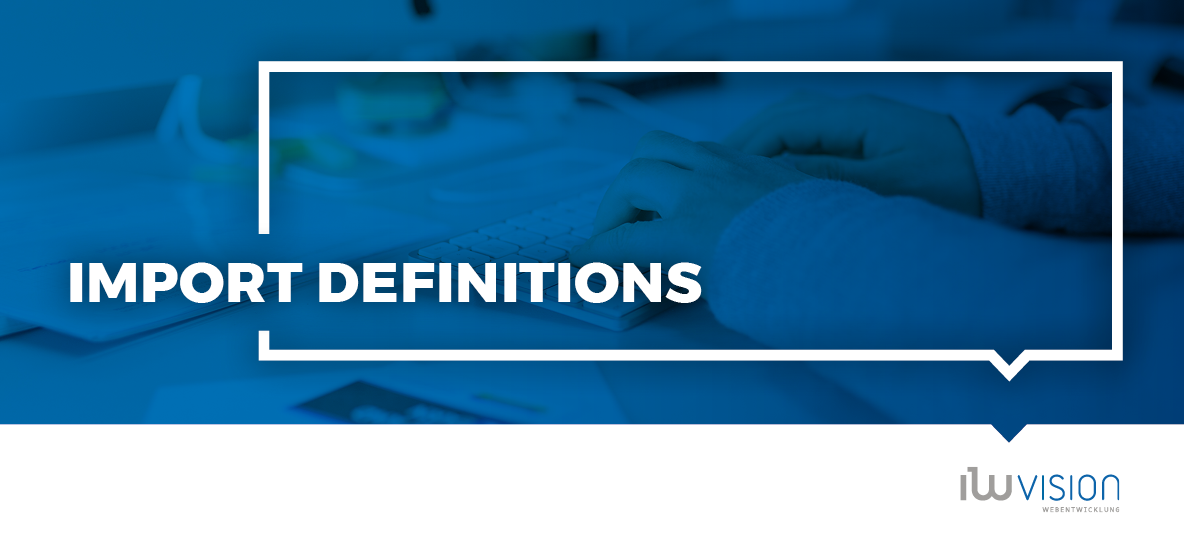
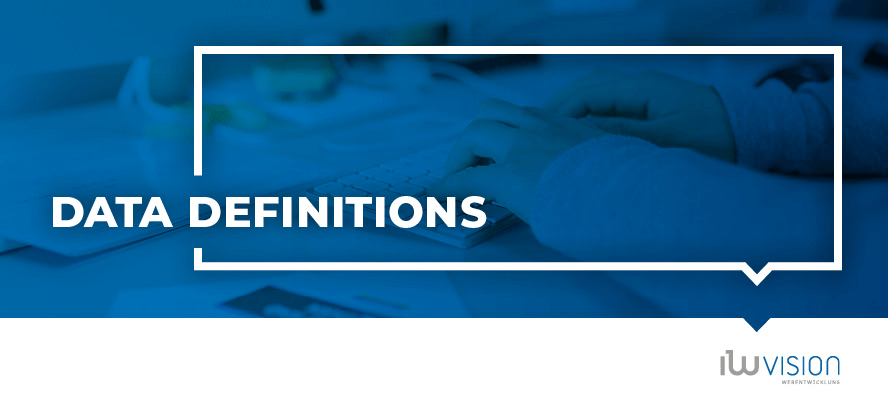
chore: update README

diff --git a/README.md b/README.md
@@ -1,12 +1,10 @@
-![ImportDefinitions](docs/images/github_banner.png "Data Definitions")
-
-**Looking for the current stable [version 1](https://github.com/w-vision/ImportDefinitions/tree/1.2)?**
+![DataDefinitions](docs/images/github_banner.png "Data Definitions")
 
 [![Software License](https://img.shields.io/badge/license-GPLv3-brightgreen.svg?style=flat-square)](LICENSE.md)
 [![Latest Stable Version](https://img.shields.io/packagist/v/w-vision/import-definitions.svg?style=flat-square)](https://packagist.org/packages/w-vision/import-definitions)
 
 
-Data Definitions allows you to define your Object Import using a nice GUI and re-run the imports as often you like. Everything within Import Definitions is extendable.
+Data Definitions allows you to define your Object Import/Export using a nice GUI and re-run the definitions as often you like. Everything within Data Definitions is extendable.
 
 ![Interface](docs/images/mapping.png)
 
@@ -236,9 +234,9 @@ bin/console import-definitions:import -d 1 -p "{\"file\":\"test.json\"}"
 ```
 
 ## License
-[w-vision AG](https://www.w-vision.ch), Sandgruebestrasse 4, 6210 Sursee, Switzerland  
-https://www.w-vision.ch, support@w-vision.ch  
-Copyright © 2018 w-vision AG. All rights reserved.
+**w-vision AG**, Sandgruebestrasse 4, 6210 Sursee, Switzerland  
+[www.w-vision.ch](https://www.w-vision.ch), support@w-vision.ch  
+Copyright © 2019 w-vision AG. All rights reserved.
 
 For licensing details please visit [LICENSE.md](LICENSE.md) 
 
